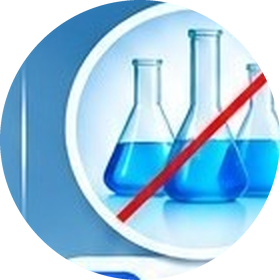
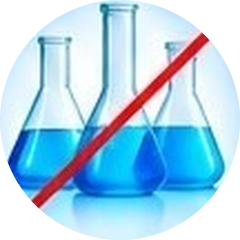
Fix badge bubble gaps and bottom edge wave gaps for perfect fit

diff --git a/src/components/WhyChooseBounten.jsx b/src/components/WhyChooseBounten.jsx
@@ -33,7 +33,7 @@ export default function WhyChooseBounten() {
         <div className="relative rounded-3xl bg-gradient-to-r from-[#00275c] via-[#004a94] to-[#006bb5] border border-sky-400/30 shadow-xl shadow-[#00275c]/25 overflow-hidden">
           
           {/* Bottom Water Wave Splash Effect */}
-          <div className="absolute inset-x-0 bottom-0 h-24 sm:h-28 md:h-32 pointer-events-none select-none overflow-hidden z-0">
+          <div className="absolute inset-x-0 bottom-0 h-20 sm:h-24 md:h-28 pointer-events-none select-none overflow-hidden z-0">
             <img
               src="/images/problems/water_wave_bottom_2x.png"
               alt="Water Wave"
@@ -76,18 +76,18 @@ export default function WhyChooseBounten() {
             </div>
 
             {/* Right Badges Column (3 Circular Prohibitions) */}
-            <div className="lg:col-span-6 xl:col-span-5 flex items-end justify-center lg:justify-end gap-3.5 sm:gap-5 md:gap-6 pb-4 sm:pb-2">
+            <div className="lg:col-span-6 xl:col-span-5 flex items-end justify-center lg:justify-end gap-3.5 sm:gap-5 md:gap-6 pb-2">
               {badges.map((badge) => (
                 <div
                   key={badge.id}
                   className="flex flex-col items-center gap-2.5 sm:gap-3 group"
                 >
-                  {/* Circular Badge with Subtle Glow & Hover Lift */}
-                  <div className="relative w-20 h-20 sm:w-24 sm:h-24 md:w-28 md:h-28 rounded-full p-1 bg-white/20 backdrop-blur-2xs shadow-xl border-2 border-white/90 overflow-hidden flex items-center justify-center transform group-hover:scale-105 transition-transform duration-300">
+                  {/* Circular Badge - Seamless Edge-to-Edge Fit (No bubble gap) */}
+                  <div className="relative w-20 h-20 sm:w-24 sm:h-24 md:w-28 md:h-28 rounded-full shadow-lg border-2 border-white overflow-hidden flex items-center justify-center transform group-hover:scale-105 transition-transform duration-300 bg-white">
                     <img
                       src={badge.image}
                       alt={badge.alt}
-                      className="w-full h-full object-cover rounded-full select-none"
+                      className="w-full h-full object-cover select-none"
                       loading="lazy"
                     />
                   </div>
@@ -119,3 +119,4 @@ export default function WhyChooseBounten() {
     </section>
   );
 }
+
